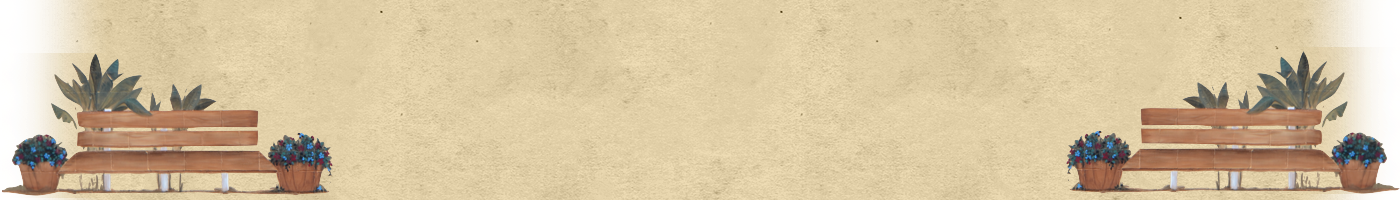
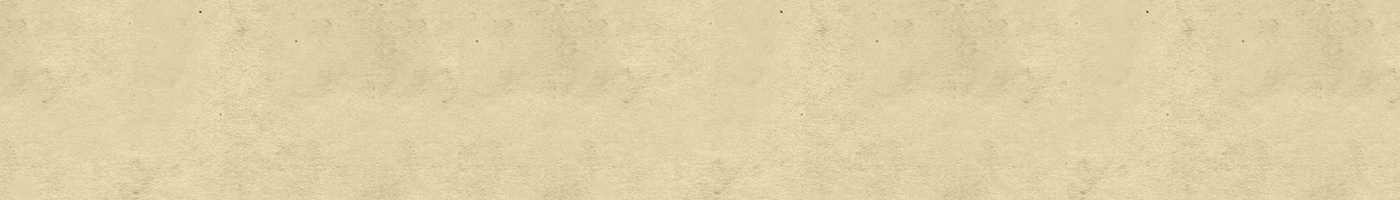
rename images

Changed region(s): [[0.7371, 0.0, 1.0, 1.0], [0.0, 0.0, 0.2457, 1.0], [0.7679, 0.99, 0.7986, 1.0]]

diff --git a/src/hooks/components/home.js b/src/hooks/components/home.js
@@ -17,7 +17,7 @@ const Home = () => {
                         <p>At Liquors Unlimited, we believe that every bottle tells a story, and we’re here to help you find the perfect one for every occasion. Located in the heart of Pascagoula, Mississippi, our store offers a curated selection of the finest wines, and spirits. Whether you're celebrating a special moment or just winding down after a long day, we have something to make it memorable.</p>
                         <p>
 
-                            <img className="home-main-image" src={(require('../../img/store-entrance.JPG'))} alt="front view of liquor store" />
+                            <img className="home-main-image" src={(require('../../img/store-entrance.JPG'))} alt="Front view of liquor store" />
                         </p>
                         <h2>
                             Discover Our Selection and Experience Unmatched Service

diff --git a/src/hooks/header.js b/src/hooks/header.js
@@ -21,17 +21,17 @@ const Header = () => {
         <div className="inner">
         <img 
             src={require("../img/left-bench.png")} 
-            alt="Bench"
+            alt="Left Bench"
             className='left-bench'
           />
           <img 
-            src={require("../img/LUTitleFirstCopy2.png")} 
+            src={require("../img/lu-header.png")} 
             alt="Liquors Unlimited Calligraphy by Lillian Castigliola"
             className='lu-logo'
           />
           <img 
             src={require("../img/right-bench.png")} 
-            alt="Bench"
+            alt="Right Bench"
             className='right-bench'
           />
         </div>

diff --git a/src/styles/stylesheet.scss b/src/styles/stylesheet.scss
@@ -195,7 +195,7 @@
     border-bottom-width: 5px;
   }
   .jumbotron .inner{
-    background:url(../img/backdrop-bench-copy.png) bottom no-repeat; 
+    background:url(../img/backdrop-bench.png) bottom no-repeat; 
     background-size: cover;
     display:flex; 
     align-items:center; 

diff --git a/src/styles/footer.scss b/src/styles/footer.scss
@@ -20,7 +20,7 @@
     background-color: #f8f9fa;
     padding: 2rem 0;
     text-align: center;
-    background-image: url('../img/backdrop-bench-copy.png') !important;
+    background-image: url('../img/backdrop-bench.png') !important;
   }
   
   .footer .wrapper {
